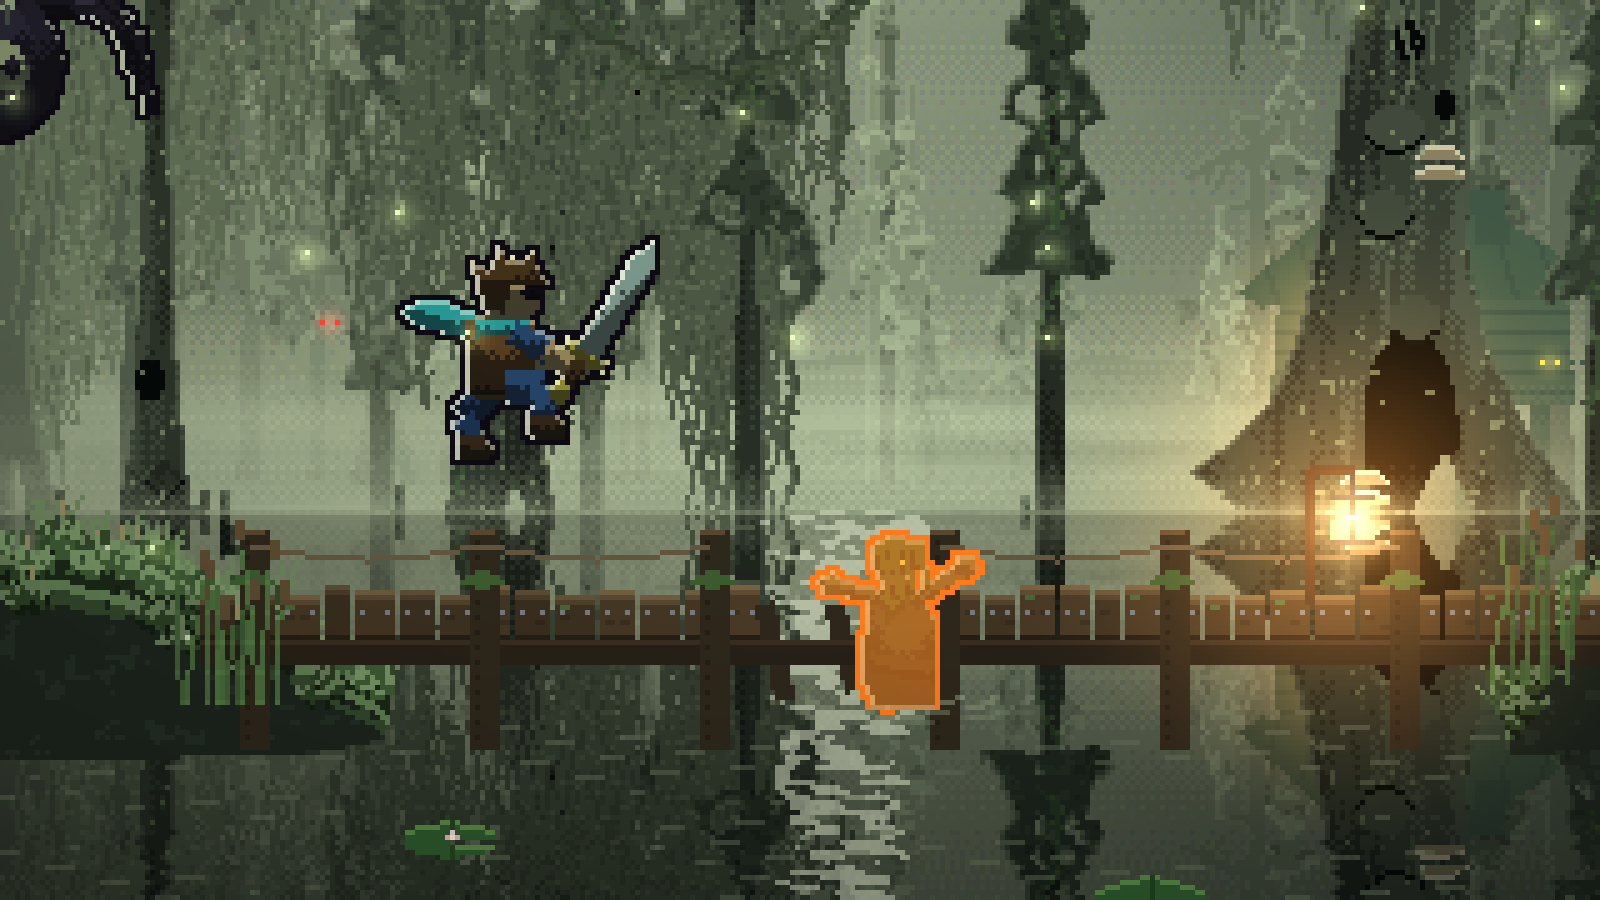
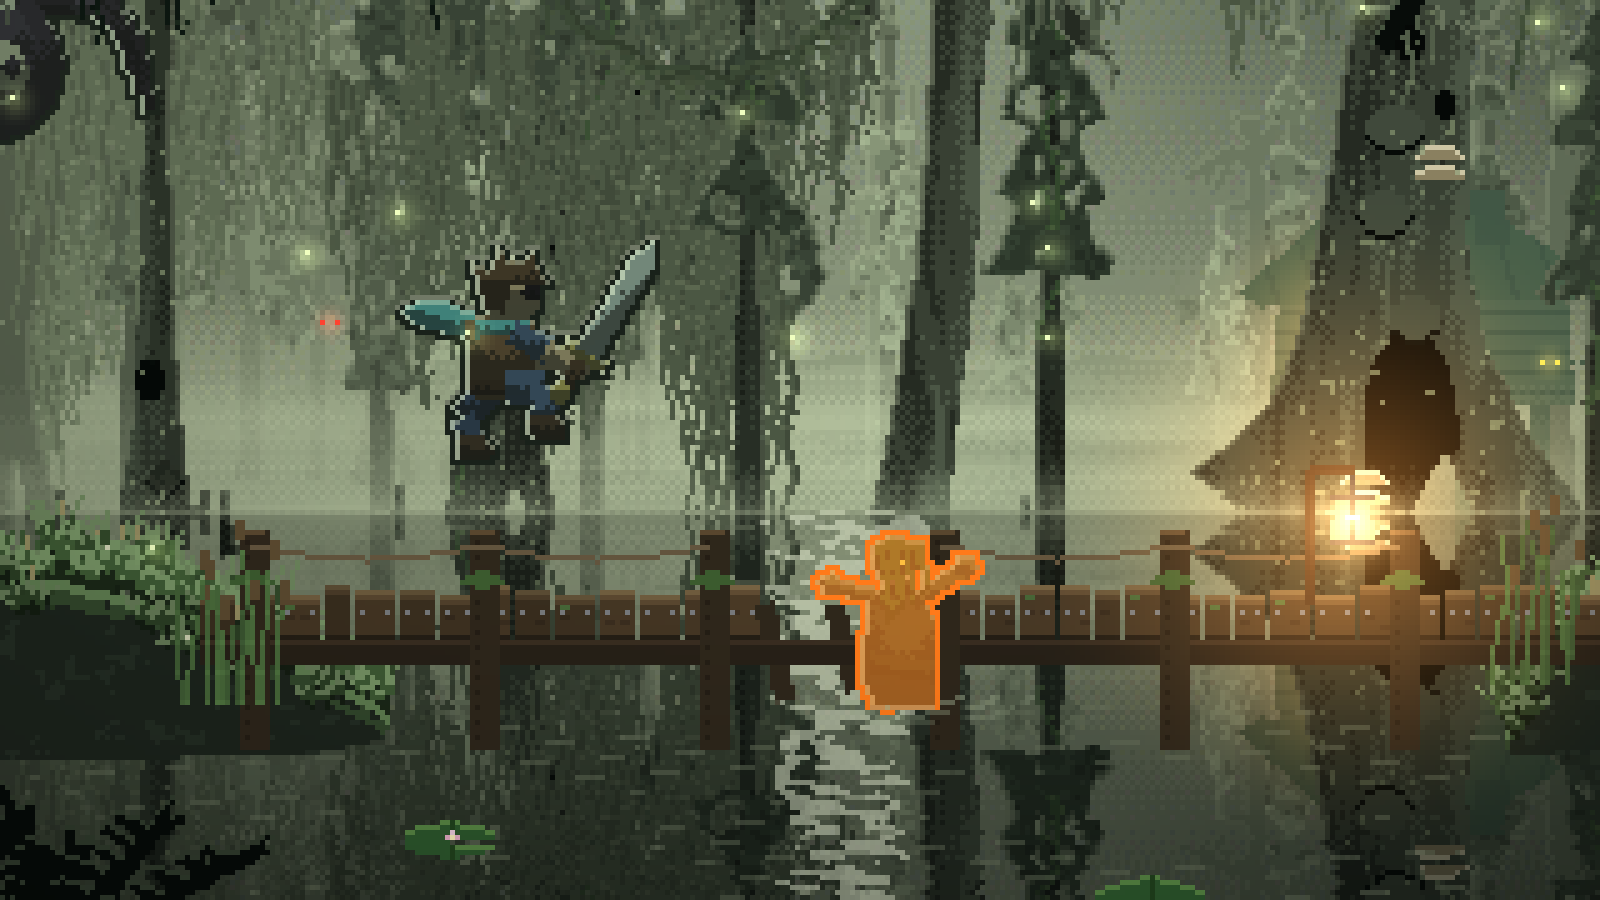
ART13b: swamp example, near-camera branches, vines and ferns, dead trees and a fallen log, monsters graded into the moonlight
Claude-Session: https://claude.ai/code/session_018E1RbT7Agev2Psz4WcAtF7

diff --git a/tools/art/final_swamp.py b/tools/art/final_swamp.py
@@ -348,6 +348,67 @@ def layer(img, items, d, seed, kind_weights, moss_on=True, rim=0.6, leaf_tint=C(
             moss(img, anchors, mix(col, C('#6a7a5a'), 0.35), mix(col, C('#8a9a74'), 0.4), sd, 1.6, int(30 + 70 * di))
 
 
+def dead_tree(img, x, base, h, w, d, seed):
+    """A big dead tree: a bare, cracked trunk with a broken top, crooked leafless limbs, a few rags of moss."""
+    rng = np.random.default_rng(seed)
+    S = [taper([(x - w * 1.2, base + 3), (x, base - h * 0.3), (x + rng.normal(0, w), base - h * 0.75), (x + rng.normal(0, w * 1.5), base - h)],
+               w * 2.0, w * 0.5, 6)]
+    tips = []
+    for k in range(int(rng.integers(5, 8))):
+        t = rng.uniform(0.35, 0.95)
+        sd = rng.choice([-1, 1])
+        crooked(S, x, base - h * t, -math.pi / 2 + sd * rng.uniform(0.6, 1.4), h * rng.uniform(0.14, 0.3), w * 0.5, 2, rng, tips, 0.45)
+    stubs(S, x, base, h, w, rng, 3)
+    m = mask(S)
+    m = m | (leafy(m, seed, 0.3) & _dilate(m, 1))
+    col = depth_col(d) * 1.05
+    fill(img, m, col)
+    if d > 0.45:
+        bark_dark(img, m, col * 1.1, seed)
+        cracks = m & (fbm(XX / 1.5, YY / 25, 2, seed + 2) > 0.7)
+        fill(img, cracks, col * 0.55)
+    # the broken top: a jagged splintered end
+    tx, ty = x, base - h
+    fill(img, mask([poly((tx - w * 0.6, ty + 4), (tx - w * 0.2, ty - 6), (tx + w * 0.1, ty), (tx + w * 0.5, ty - 9), (tx + w * 0.7, ty + 4))]), col)
+    rim_light(img, m, 0.55 * (1 - d * 0.4))
+    moss(img, tips[::3], mix(col, C('#6a7a5a'), 0.3), mix(col, C('#8a9a74'), 0.35), seed, 0.6, 30)
+
+
+def fallen_log(img, x0, x1, y, w, seed):
+    """A dead log lying half sunk in the water, with a broken branch sticking up and moss on top."""
+    rng = np.random.default_rng(seed)
+    S = [taper([(x0, y + 2), ((x0 + x1) / 2, y - 2), (x1, y + 4)], w, w * 0.6, 4),
+         taper([((x0 + x1) / 2 + 10, y - 2), ((x0 + x1) / 2 + 16, y - 16), ((x0 + x1) / 2 + 13, y - 24)], 3, 1, 3)]
+    m = mask(S)
+    bark_dark(img, m, depth_col(0.75) * 1.2, seed)
+    top = m & ~np.roll(m, 2, 0)
+    fill(img, top & (fbm(XX / 4, YY / 4, 2, seed) > 0.4), C('#3e5a34'))
+    fill(img, mask([ell(x0, y + 2, w * 0.35, w * 0.48, 0, 12)]), depth_col(0.75) * 0.6)      # the broken end
+    rim_light(img, m, 0.4)
+
+
+def graded_actor(img, parts, key, amb, pts, rim, flash=None, fog_a=0.22, dim=0.82):
+    """Draw a character, then grade it into the scene: dimmer, a little mist over it, a soft dark-green outline
+    instead of black, colours pulled towards the moonlit greens. Glowing eyes, staffs and the attack flash stay bright."""
+    before = img.copy()
+    actor(img, parts, key, amb, pts, rim=rim, outline='#0e1a12', flash=flash)
+    ch = np.abs(img - before).sum(axis=2) > 0.01
+    mx, mn = img.max(axis=2), img.min(axis=2)
+    glowy = (mx > 0.8) & (mx - mn > 0.3)
+    if flash is not None:
+        glowy |= ch & (img[..., 0] > img[..., 2] + 0.25)
+    g = ch & ~glowy
+    lum = img[g].mean(axis=1, keepdims=True)
+    tinted = lum * np.array([0.9, 1.05, 0.92], np.float32)
+    img[g] = mix(img[g], tinted, 0.35) * dim
+    img[g] = mix(img[g], MIST * 0.7, fog_a)
+    # a soft moonlit edge on the top and moon side, so dark creatures still read against the dark
+    inner = ch & _dilate(ch, 0) & ~(np.roll(ch, 1, 0) & np.roll(ch, -1, 0) & np.roll(ch, 1, 1) & np.roll(ch, -1, 1))
+    side = np.where(XX < MOON[0], ~np.roll(ch, -1, 1), ~np.roll(ch, 1, 1))
+    edge = ch & ~glowy & (~np.roll(ch, 1, 0) | side) & ~inner | (ch & ~glowy & ~np.roll(ch, 1, 0))
+    img[edge] = mix(img[edge], C(rim), 0.45)
+
+
 def grass_tufts(img, top, grass_col, seed, density=0.5, hmin=3, hmax=12, d=0.8):
     """Detailed grass: tufts of 4-9 curved blades in three tones (dark base, mid, a moonlit tip), seed heads, little
     ferns and a few pale flowers."""
@@ -445,10 +506,14 @@ def scene():
     layer(img, items, 0.52, 21, [0.0, 0.25, 0.75], rim=0.55)
     items = [(x, WATER + 1, rng.uniform(120, 200), 8.5) for x in (30, 300, 360, 470, 610)]
     layer(img, items, 0.6, 23, [0.85, 0.15, 0.0], moss_on=False, rim=0.5)
+    dead_tree(img, 340, WATER + 1, 210, 7, 0.5, 81)
+    dead_tree(img, 486, WATER + 1, 150, 5, 0.45, 82)
+    dead_tree(img, 22, WATER + 2, 240, 9, 0.62, 83)
     for (x, y, c) in ((214, 214, '#ff3a2a'), (458, 222, '#ffc84a'), (98, 228, '#ff3a2a')):     # eyes in the dark
         img[y, x] = img[y, x + 3] = C(c)
         glow(img, x + 1.5, y, 5, C(c), 0.3)
     mist(img, WATER + 2, 12, 0.5, 6)
+    fallen_log(img, 470, 600, WATER + 4, 9, 91)
     # the water: a still mirror of the sky and the trees, darker and rippled closer to us
     above = img.copy()
     wy = YY >= WATER
@@ -517,15 +582,16 @@ def scene():
     key = {'dir': (0.0, -0.7, 0.5), 'col': (0.42, 0.48, 0.4)}
     amb = (0.18, 0.22, 0.2)
     pts = [(420, 254, 130, (1.0, 0.62, 0.28), 0.9), (MOON[0], MOON[1], 500, (0.5, 0.55, 0.45), 0.3)]
-    actor(img, witch(540, 262), key, amb, pts, rim='#dce6c4')
+    graded_actor(img, witch(540, 262), key, amb, pts + [(530, 214, 70, (0.5, 1.0, 0.4), 1.4)], '#b8f0a0', fog_a=0.08, dim=1.08)
     glow(img, 532, 212, 30, C('#90ff60'), 0.45)
-    actor(img, spider(150, 150, 1.6), key, amb, pts, rim='#dce6c4')
-    actor(img, zombie(330, 288), key, amb, pts, rim='#dce6c4', flash='#ff8a2a')
+    graded_actor(img, spider(150, 150, 1.6), key, amb, pts, '#c8d8b0', fog_a=0.12, dim=0.95)
+    graded_actor(img, zombie(330, 288), key, amb, pts, '#b8c8a4', flash='#ff8a2a')
     for k in range(3):
         r = 12 + k * 7
         rr = mask([ell(330, 289, r, r * 0.22, 0, 24)]) & ~mask([ell(330, 289, r - 1.4, r * 0.22 - 0.8, 0, 24)])
         fill(img, rr & (YY > 288), C('#9aa88a'), 0.5 - k * 0.13)
-    actor(img, hero(250, 244, 1), key, amb, pts, rim='#eef2dc')
+    graded_actor(img, hero(250, 244, 1), key, amb, pts, '#dce6c4', fog_a=0.1, dim=0.92)
+    near_camera(img)
     rng3 = np.random.default_rng(17)
     for _ in range(14):                                                  # a few fireflies, small and soft
         fx, fy = rng3.uniform(150, 520), rng3.uniform(150, 260)
@@ -536,6 +602,39 @@ def scene():
     img[:] = np.clip(img, 0, 1.15)
     hud(img)
     return img
+
+
+def near_camera(img):
+    """Things right in front of the camera: huge dark branches reaching in from the top corners with vines and moss
+    hanging close, big fern fronds and a broken stump in the bottom corners. Almost black, lit only at the edges."""
+    rng = np.random.default_rng(101)
+    col, rimc = C('#070c09'), mix(C('#4a5e44'), SKY_LO, 0.25)
+    S, tips = [], []
+    crooked(S, -10, 70, -0.25, 300, 22, 2, rng, tips, 0.25)
+    crooked(S, 650, 40, math.pi + 0.35, 240, 20, 2, rng, tips, 0.25)
+    m = mask(S)
+    m = m | (leafy(m, 5, 0.3) & _dilate(m, 1))
+    fill(img, m, col)
+    e = m & ~np.roll(m, 1, 0)
+    fill(img, e, rimc, 0.7)
+    moss(img, tips + [(x, 76 + 6 * math.sin(x / 9)) for x in range(10, 240, 9)] + [(x, 50 + (650 - x) * 0.3) for x in range(470, 640, 9)],
+         C('#0c1610'), C('#18261a'), 103, 0.9, 85)
+    hanging_vines(img, [((0, 20), (210, 60)), ((440, 10), (640, 70))], C('#060a08'), C('#152015'), 104, thick=3)
+    for (x, y, sd) in ((60, 330, 1), (600, 336, -1), (150, 360, 1)):          # big fern fronds
+        for k in range(7):
+            a = -math.pi / 2 + sd * (-0.9 + k * 0.3)
+            ln = rng.uniform(40, 70)
+            fx, fy = x + math.cos(a) * ln, y + math.sin(a) * ln
+            fm = mask([taper([(x, y), ((x + fx) / 2 + sd * 6, (y + fy) / 2 - 8), (fx, fy)], 6, 1, 4)])
+            for j in range(9):                                            # leaflets along the frond
+                t = 0.15 + j * 0.09
+                lx, ly = x + (fx - x) * t, y + (fy - y) * t - 8 * math.sin(math.pi * t)
+                fm |= mask([ell(lx - 3, ly + 2, 4.5, 1.6, 30, 8), ell(lx + 3, ly + 2, 4.5, 1.6, -30, 8)])
+            fill(img, fm, col)
+            fill(img, fm & ~np.roll(fm, 1, 0), rimc, 0.5)
+    stump = mask([spoly((520, 362), (524, 318), (536, 300), (548, 312), (556, 296), (566, 318), (572, 362), n=3)])
+    fill(img, stump, C('#0a100c'))
+    fill(img, stump & ~np.roll(stump, 1, 1), rimc, 0.6)
 
 
 def build():
